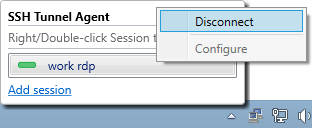
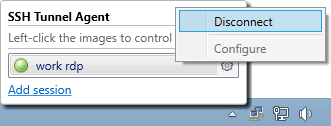
update screenshots and download link

diff --git a/index.html b/index.html
@@ -27,7 +27,7 @@
       <div id="main" role="main">
         <div class="download-bar">
 			<div class="inner">
-			  <a href="https://github.com/ltguide/ssh-tunnel-agent/releases/download/v1.3/ssh-tunnel-agent.exe" class="download-button exe"><span>Download</span></a>
+			  <a href="https://github.com/ltguide/ssh-tunnel-agent/releases/download/v1.4/ssh-tunnel-agent.exe" class="download-button exe"><span>Download</span></a>
 			  <a href="https://github.com/ltguide/ssh-tunnel-agent" class="code">View SSH Tunnel Agent on GitHub</a>
 			</div>
 			<span class="blc"></span><span class="trc"></span>
@@ -74,13 +74,13 @@
 			</p>
 			<hr />
 			<p>
-				Left/Double-click the Tray Icon for the session control popup. It displays all the sesions and whether they are connected, disconnected, or had an error. The "Add session" link will open the "Configure Session" window. Double-clicking on a session will connect or disconnect that session.
+				Left/Double-click the Tray Icon for the session control popup. It displays all the sesions and whether they are connected, disconnected, or had an error. You can left-click on a status image or double-click on a session to connect or disconnect that session. Left-clicking the gear image will open the "Configure Session" window in edit mode. Clicking the "Add session" link opens this window in new session mode.
 				<br />
 				<img src="screenshots/tray_popup.png" alt="" />
 			</p>
 			<hr />
 			<p>
-				In the session control popup, right-click on a session to toggle its connection state or edit its configuration. You cannot edit a session that is currently connected.
+				In the session control popup, you can also right-click on a session to toggle its connection state or edit its configuration. You cannot edit a session that is currently connected.
 				<br />
 				<img src="screenshots/popup_contextmenu.png" alt="" />
 			</p>
@@ -105,7 +105,7 @@
 			
 			<h3><a name="things-to-consider" class="anchor" href="#things-to-consider"><span class="octicon octicon-link"></span></a>Things to Consider</h3>
 
-			<p>If a session doesn't seem to be working correctly, then enable the "Start a shell" or "Show console to view results" options (then connect again) to open the Session Console to view the connection details.</p>
+			<p>If a session doesn't seem to be working correctly, then enable the "Start a shell" or "Display results in console" options (then connect again) to open the Session Console to view the connection details.</p>
 			
 			<p>If the program is located in a system folder (C:\, C:\Program Files\*, etc), then it will not be able to write to that location (unless it is run as an administrator). Instead, it will write to <strong>ssh-tunnel-agent</strong> in the current user's roaming profile. You can easily access this folder by typing <strong>%APPDATA%</strong> into the start menu/screen and pressing enter. If the .config file exists in this location, then it will override the .config located with the program.</p>
 			
